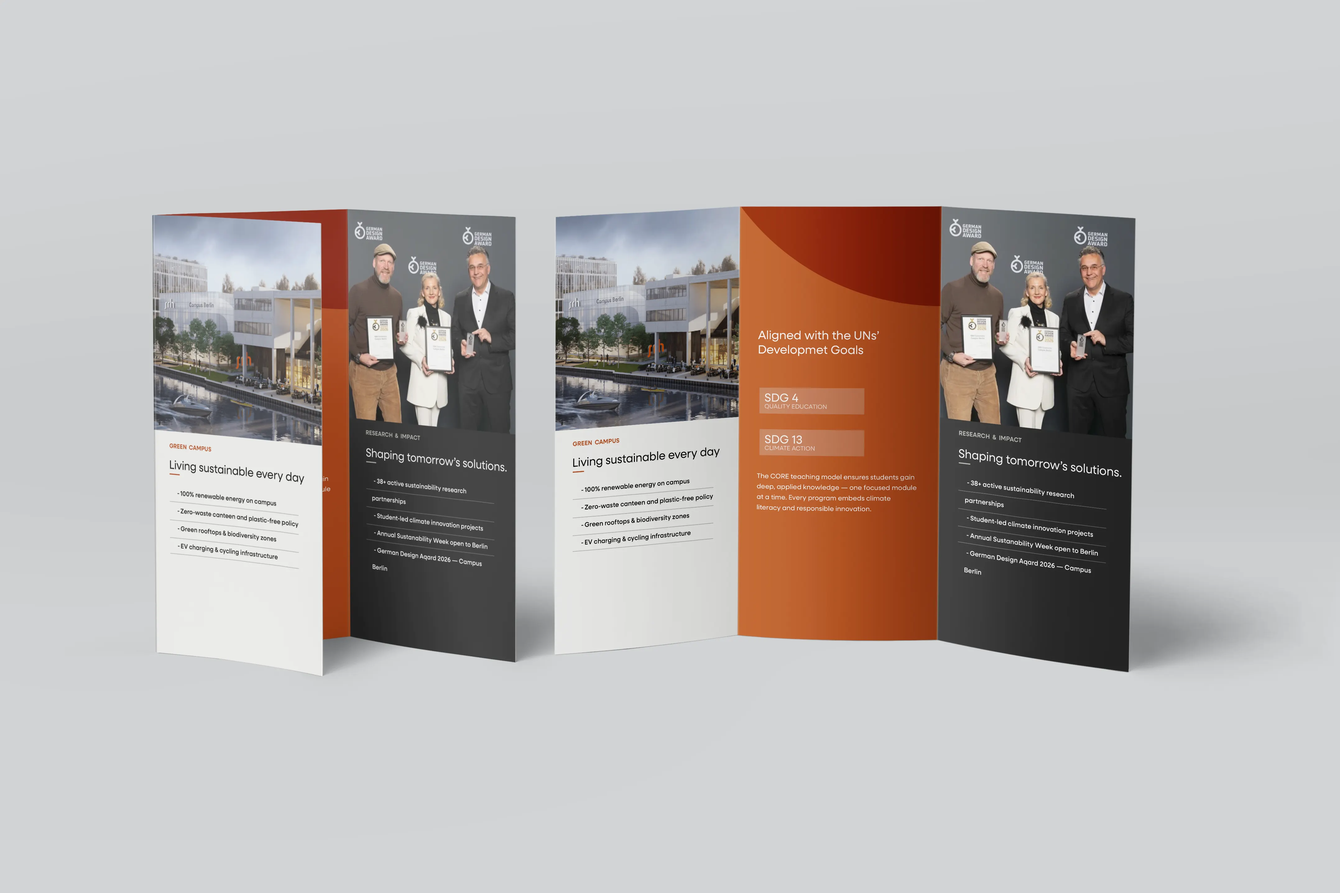
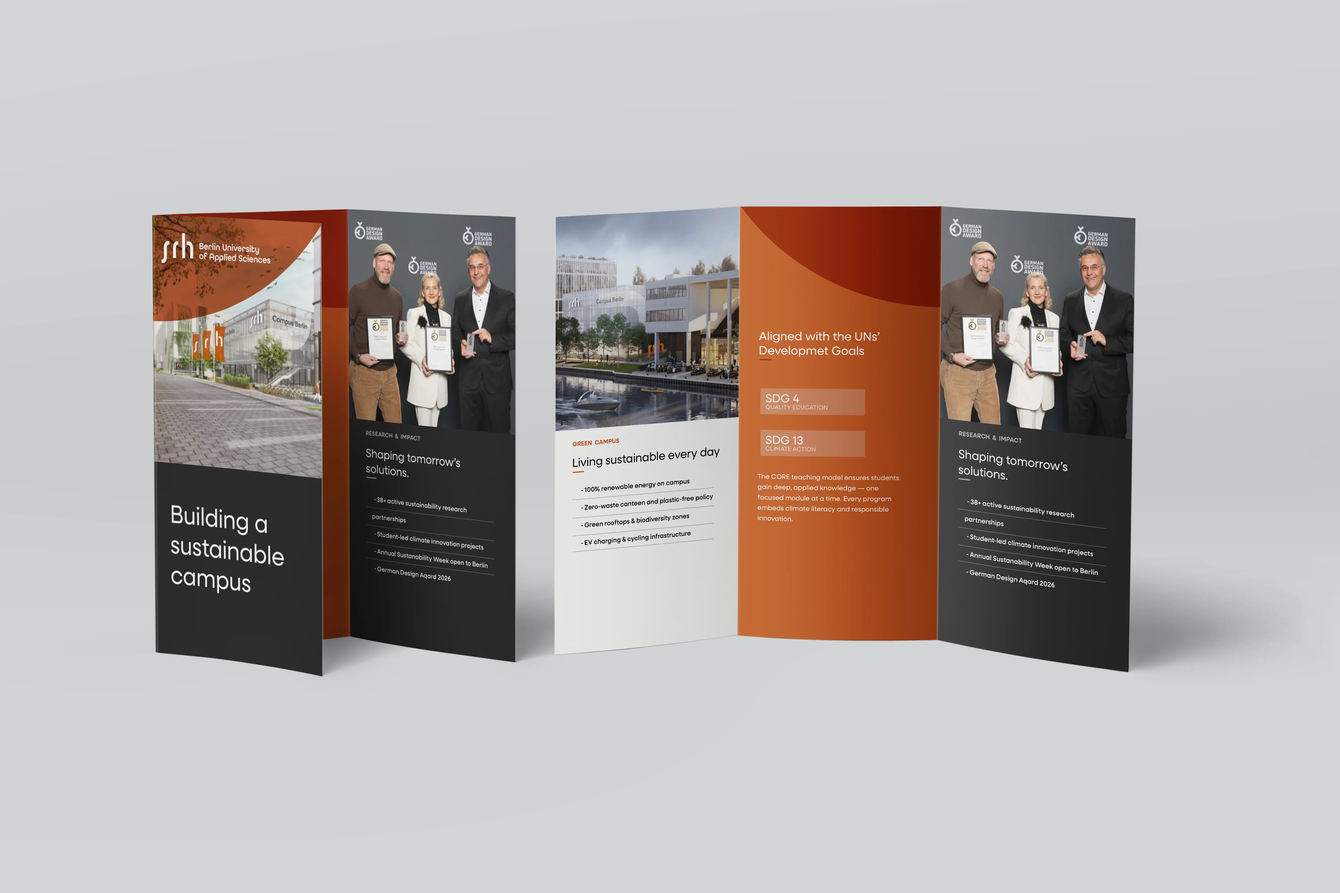
Describe what you changed

diff --git a/flerkanalspublisering.html b/flerkanalspublisering.html
@@ -11,42 +11,88 @@
   <link href="https://fonts.googleapis.com/css2?family=Inter:wght@400;500&family=Poppins:wght@300;400;500&family=Caveat:wght@400&display=swap" rel="stylesheet">
   <link rel="stylesheet" href="./styles.css?v=20" />
   <link rel="icon" href="assets/hvitlogo.webp">
+  <link rel="preload" as="image" href="./assets/poster-srh.webp">
   <style>
-    #posterBannerStrip { scrollbar-width: none; overflow-y: hidden; }
-    #posterBannerStrip::-webkit-scrollbar { display: none; }
-    #posterBannerStrip:active { cursor: grabbing; }
+    /* Remove default template padding to keep the hero flush to the top */
+    #content { padding-top: 0 !important; }
+    #project { padding-top: 0 !important; margin-top: 0 !important; }
+
     #linkedinPostsScroll { scrollbar-width: none; overflow-y: hidden; }
     #linkedinPostsScroll::-webkit-scrollbar { display: none; }
     #linkedinPostsScroll:active { cursor: grabbing; }
     .srh-label { font-family: inherit; font-size: 0.68rem; font-weight: 500; letter-spacing: 0.16em; text-transform: uppercase; color: #111; margin: 0 0 12px 0; }
     .srh-desc  { font-family: 'Poppins', sans-serif; font-size: 0.88rem; font-weight: 300; line-height: 1.8; color: #222; margin: 0; }
     .srh-desc--solo { max-width: 560px; }
-    .brosyre-slider { position: relative; margin-bottom: 12px; }
+
+    /* Hero Section */
+    .hero-section {
+      width: 100%;
+      height: clamp(400px, 72vh, 900px);
+      position: relative;
+      margin-bottom: 48px;
+      overflow: hidden;
+    }
+    .hero-section img {
+      display: block;
+      width: 100%;
+      height: 100%;
+      object-fit: cover;
+      object-position: top center;
+    }
+
+    /* Slider styling: 100% width of the content column, perfectly centered */
+    .brosyre-slider { 
+      position: relative; 
+      margin-bottom: 24px; 
+      width: 100%; 
+      display: flex;
+      align-items: center;
+      justify-content: center;
+    }
+    .brosyre-slider img {
+      display: block; 
+      width: 100%; 
+      height: auto; 
+      object-fit: contain;
+    }
+
     .brosyre-arrow {
       position: absolute; top: 50%; transform: translateY(-50%);
       background: white; border: none; width: 34px; height: 34px;
       display: flex; align-items: center; justify-content: center;
       cursor: pointer; font-size: 1.1rem; box-shadow: 0 1px 6px rgba(0,0,0,0.12);
       border-radius: 50%; transition: background 0.15s;
+      z-index: 10;
     }
     .brosyre-arrow:hover { background: #f5f5f5; }
     .brosyre-arrow--prev { left: 16px; }
     .brosyre-arrow--next { right: 16px; }
+    
     .srh-intro-cols { display: flex; gap: var(--gap, 32px); }
-    .srh-hero-meta { display: flex; gap: 64px; margin-bottom: 96px; padding-top: 16px; }
+    .srh-hero-meta { display: flex; gap: 40px; margin-bottom: 96px; padding-top: 24px; }
     .srh-strip-img { height: clamp(320px, 55vh, 640px); width: auto; flex-shrink: 0; scroll-snap-align: start; display: block; }
     .srh-linkedin-section { display: flex; gap: var(--gap, 32px); margin-bottom: 12px; align-items: flex-start; }
     .srh-reklame-section { display: flex; gap: var(--gap, 32px); margin-bottom: 88px; align-items: flex-start; }
-    @media (max-width: 720px) {
-      .srh-intro-cols { flex-direction: column; }
-      .srh-hero-meta { flex-direction: column; gap: 40px; }
-      .srh-hero-meta > div:first-child { width: 100% !important; }
-      .srh-strip-img { height: clamp(240px, 70vw, 400px); }
-      .srh-linkedin-section { flex-direction: column; }
-      .srh-linkedin-section img { width: 60% !important; }
-      .srh-reklame-section { flex-direction: column; }
+    
+    /* Responsive overrides for Mobile and Tablet */
+    @media (max-width: 768px) {
+      .srh-hero-meta { flex-direction: column !important; gap: 32px !important; margin-bottom: 64px !important; padding: 0 16px; }
+      .srh-hero-meta > div { width: 100% !important; margin-left: 0 !important; max-width: 100% !important; }
+      
+      .srh-linkedin-section { flex-direction: column !important; padding: 0 16px; }
+      .srh-linkedin-section > img { width: 60% !important; max-width: 240px; margin: 0 auto 24px auto !important; }
+      #linkedinPostsScroll { margin-top: 0 !important; }
+      
+      .srh-reklame-section { flex-direction: column !important; padding: 0 16px; }
       .srh-reklame-section > div { flex: unset !important; width: 100% !important; }
+      
+      .typo-block { padding: 24px !important; gap: 32px !important; }
+      .typo-item { flex-direction: column !important; gap: 16px !important; }
+      
+      .srh-desc--solo, .srh-label { padding: 0 16px; }
+      .color-swatches { grid-template-columns: repeat(auto-fit, minmax(100px, 1fr)) !important; gap: 12px !important; padding: 0 16px; }
     }
+
     .srh-section { margin-bottom: var(--gap, 32px); }
     .srh-section-head { margin-bottom: 20px; }
     .img-zoom { position: relative; overflow: hidden; cursor: zoom-in; }
@@ -98,91 +144,76 @@
 
   <main id="content" class="content">
     <article class="project" id="project">
-        <!-- Hero image with gradient fade -->
-        <div style="position:relative;height:72vh;overflow:hidden;margin-bottom:48px;">
-          <img src="./assets/poster-srh.webp" alt="SRH Open Day poster" style="display:block;width:100%;height:100%;object-fit:cover;object-position:top;">
+        
+        <div class="hero-section">
+          <img src="./assets/poster-srh.webp" alt="SRH Open Day poster" fetchpriority="high" decoding="async">
           <div style="position:absolute;bottom:0;left:0;right:0;height:35%;background:linear-gradient(to bottom,transparent,#fff);pointer-events:none;"></div>
         </div>
 
-        <!-- Title + metadata (left) | text (right) -->
         <div class="srh-hero-meta">
-          <div style="width:360px;flex-shrink:0;">
-            <img src="./srh-open-day-3/assets/img/srh-logo-oransj@3x.webp" alt="SRH Berlin University of Applied Sciences" style="display:block;width:100%;height:auto;margin-bottom:32px;">
+          <div style="width:280px;flex-shrink:0;">
+            <img src="./srh-open-day-3/assets/img/srh-logo-oransj@3x.webp" alt="SRH Berlin University of Applied Sciences" decoding="async" style="display:block;width:100%;height:auto;margin-bottom:32px;">
             <p class="srh-label">Oppgave</p>
             <p class="srh-desc" style="margin-bottom:24px;">IDG1009 Flerkanalpublisering<br>Høst 2024</p>
             <p class="srh-label">Verktøy</p>
-            <div style="display:flex;gap:16px;flex-wrap:wrap;">
+            <div style="display:flex;gap:12px;flex-wrap:wrap;">
               <div style="display:flex;flex-direction:column;align-items:center;gap:6px;">
-                <img src="./srh-open-day-3/assets/img/figma.png" alt="Figma" style="width:32px;height:32px;object-fit:contain;">
+                <img src="./srh-open-day-3/assets/img/figma.png" alt="Figma" loading="lazy" decoding="async" style="width:32px;height:32px;object-fit:contain;">
                 <span class="srh-desc">Figma</span>
               </div>
               <div style="display:flex;flex-direction:column;align-items:center;gap:6px;">
-                <img src="./assets/illustrator.webp" alt="Adobe Illustrator" style="width:32px;height:32px;object-fit:contain;">
+                <img src="./assets/illustrator.webp" alt="Adobe Illustrator" loading="lazy" decoding="async" style="width:32px;height:32px;object-fit:contain;">
                 <span class="srh-desc">Illustrator</span>
               </div>
               <div style="display:flex;flex-direction:column;align-items:center;gap:6px;">
-                <img src="./assets/photoshop.webp" alt="Adobe Photoshop" style="width:32px;height:32px;object-fit:contain;">
+                <img src="./assets/photoshop.webp" alt="Adobe Photoshop" loading="lazy" decoding="async" style="width:32px;height:32px;object-fit:contain;">
                 <span class="srh-desc">Photoshop</span>
               </div>
               <div style="display:flex;flex-direction:column;align-items:center;gap:6px;">
-                <img src="./assets/indesign.webp" alt="Adobe Indesign" style="width:32px;height:32px;object-fit:contain;">
+                <img src="./assets/indesign.webp" alt="Adobe Indesign" loading="lazy" decoding="async" style="width:32px;height:32px;object-fit:contain;">
                 <span class="srh-desc">Indesign</span>
               </div>
             </div>
           </div>
-          <div style="flex:1;min-width:0;display:flex;flex-direction:column;gap:1.8rem;justify-content:center;">
+          <div style="flex:1;min-width:0;display:flex;flex-direction:column;gap:1.8rem;justify-content:center;max-width:640px; margin-left:48px;">
             <p style="font-family:'Poppins',sans-serif;font-size:1rem;font-weight:300;line-height:1.8;color:#222;margin:0;">I faget flerkanalspublisering fikk vi i oppgave å designe for en valgfri bedrift. Jeg valgte SRH University of Applied Sciences fordi det er en skole jeg har vært interessert i å dra på utveksling til, og som jeg synes har et spennende og visuelt tiltalende miljø.</p>
-            <p style="font-family:'Poppins',sans-serif;font-size:1rem;font-weight:300;line-height:1.8;color:#222;margin:0;">Oppgaven har vært å utvikle en visuell kommunikasjonsløsning for et arrangement på tvers av flere medier. Prosjektet tar utgangspunkt i Open Day ved SRH Campus Berlin, og bruker arrangementet som et case for å utforske et tydelig visuelt uttrykk gjennom struktur, hierarki og konsistente designprinsipper.</p>
+            <p style="font-family:'Poppins',sans-serif;font-size:1rem;font-weight:300;line-height:1.8;color:#222;margin:0;">Oppgaven har vært å utvikle una visuell kommunikasjonsløsning for et arrangement på tvers av flere medier. Prosjektet tar utgangspunkt i Open Day ved SRH Campus Berlin, og bruker arrangementet som et case for å utforske et tydelig visuelt uttrykk gjennom struktur, hierarki og konsistente designprinsipper.</p>
           </div>
         </div>
 
-        <!-- Plakat + Rollupbanner (horisontal scroll) -->
-        <div style="display:flex;justify-content:space-between;align-items:baseline;margin-bottom:12px;">
-          <p class="srh-label" style="margin:0;">Plakat</p>
-          <p class="srh-label" style="margin:0;">Rollupbanner ›</p>
+        <div style="margin-bottom:12px;">
+          <p class="srh-label" style="margin:0;">Rollupbanner & Plakat</p>
         </div>
-        <div style="position:relative;margin-bottom:12px;">
-          <div id="posterBannerStrip" style="display:flex;overflow-x:auto;scroll-snap-type:x mandatory;-webkit-overflow-scrolling:touch;cursor:grab;">
-            <div style="min-width:100%;flex-shrink:0;scroll-snap-align:start;">
-              <img src="./assets/poster-srh.webp" alt="Poster SRH" style="display:block;width:100%;height:clamp(400px,75vh,700px);object-fit:cover;object-position:center;">
-            </div>
-            <div style="flex-shrink:0;scroll-snap-align:start;padding-left:var(--gap,32px);">
-              <img src="./assets/banner-srh.webp" alt="Banner SRH" style="display:block;height:clamp(400px,80vh,800px);width:auto;">
-            </div>
-          </div>
-          <div style="position:absolute;top:0;right:0;width:80px;height:100%;background:linear-gradient(to right,transparent,rgba(255,255,255,0.95));pointer-events:none;display:flex;align-items:center;justify-content:flex-end;padding-right:12px;">
-            <div style="display:flex;flex-direction:column;align-items:center;gap:4px;">
-              <svg width="28" height="28" viewBox="0 0 28 28" fill="none"><circle cx="14" cy="14" r="13" fill="white" stroke="#ddd"/><path d="M11.5 9l5 5-5 5" stroke="#111" stroke-width="1.8" stroke-linecap="round" stroke-linejoin="round"/></svg>
-              <span style="font-size:0.6rem;letter-spacing:0.12em;text-transform:uppercase;color:#888;font-family:inherit;">scroll</span>
-            </div>
-          </div>
+        
+        <div class="brosyre-slider">
+          <img id="bannerPosterImg" src="./assets/banner-srh.webp" alt="Banner SRH" loading="lazy" decoding="async">
+          <button class="brosyre-arrow brosyre-arrow--prev" onclick="bannerPosterNav(-1)" aria-label="Forrige"><svg width="8" height="13" viewBox="0 0 10 16" fill="none"><path d="M8 1L2 8L8 15" stroke="currentColor" stroke-width="2" stroke-linecap="round" stroke-linejoin="round"/></svg></button>
+          <button class="brosyre-arrow brosyre-arrow--next" onclick="bannerPosterNav(1)" aria-label="Neste"><svg width="8" height="13" viewBox="0 0 10 16" fill="none"><path d="M2 1L8 8L2 15" stroke="currentColor" stroke-width="2" stroke-linecap="round" stroke-linejoin="round"/></svg></button>
         </div>
+        
         <div style="margin-bottom:88px;display:flex;flex-direction:column;gap:8px;max-width:680px;">
-          <p class="srh-desc" style="margin:0;">Plakaten er designet for å fange oppmerksomhet raskt og formidle Open Day på en tydelig måte. Jeg har tatt inspirasjon fra skolens visuelle uttrykk og min egen interesse for designfagene de tilbyr.</p>
-          <p class="srh-desc" style="margin:0;">Rollup-banneret er laget for å fungere i fysiske omgivelser, med et enkelt og tydelig budskap som er lett å få med seg på avstand. Designet følger samme visuelle retning som resten av konseptet.</p>
+          <p class="srh-desc srh-desc--solo" style="margin:0;">Plakaten er designet for å fange oppmerksomhet raskt og formidle Open Day på en tydelig måte. Jeg har tatt inspirasjon fra skolens visuelle uttrykk og min egen interesse for designfagene de tilbyr.</p>
+          <p class="srh-desc srh-desc--solo" style="margin:0;">Rollup-banneret er laget for å fungere i fysiske omgivelser, med et enkelt og tydelig budskap som er lett å få med seg på avstand. Designet følger samme visuelle retning som resten av konseptet.</p>
         </div>
 
-        <!-- Nettside -->
         <p class="srh-label">Nettside (event)</p>
-        <video src="./assets/srh-video.mp4" autoplay muted loop playsinline controls style="display:block;width:100%;height:auto;margin-bottom:12px;"></video>
+        <video src="./assets/srh-video.mp4" autoplay muted loop playsinline controls preload="metadata" style="display:block;width:100%;height:auto;margin-bottom:12px;"></video>
         <p class="srh-desc srh-desc--solo" style="margin-bottom:88px;">Nettsiden er holdt veldig enkel, med fokus på å formidle informasjon om arrangementet på en rask og oversiktlig måte. Den er laget for at brukeren raskt skal forstå hva, hvor og når. <a href="./srh-open-day-3/index.html" target="_blank" rel="noopener" style="color:inherit;text-decoration:underline;text-underline-offset:3px;">Åpne nettsiden ↗</a></p>
 
-        <!-- Brosjyre -->
         <p class="srh-label">Brosjyre</p>
         <div class="brosyre-slider">
-          <img id="brosyreImg" src="./assets/brosyre-inn-srh.webp" alt="Brosjyre – innside" style="display:block;width:100%;height:auto;">
+          <img id="brosyreImg" src="./assets/brosyre-inn-srh.webp" alt="Brosjyre – innside" loading="lazy" decoding="async">
           <button class="brosyre-arrow brosyre-arrow--prev" onclick="brosyreNav(-1)" aria-label="Forrige"><svg width="8" height="13" viewBox="0 0 10 16" fill="none"><path d="M8 1L2 8L8 15" stroke="currentColor" stroke-width="2" stroke-linecap="round" stroke-linejoin="round"/></svg></button>
           <button class="brosyre-arrow brosyre-arrow--next" onclick="brosyreNav(1)" aria-label="Neste"><svg width="8" height="13" viewBox="0 0 10 16" fill="none"><path d="M2 1L8 8L2 15" stroke="currentColor" stroke-width="2" stroke-linecap="round" stroke-linejoin="round"/></svg></button>
         </div>
-        <p class="srh-desc srh-desc--solo" style="margin-bottom:88px;">Brosjyren skiller seg litt ut ved at den fokuserer på skolens bærekraftstiltak. Jeg valgte et minimalistisk uttrykk, der målet er å gi en kort introduksjon og heller lede videre til mer detaljert informasjon på deres egen nettside.</p>
+        <p class="srh-desc srh-desc--solo" style="margin-bottom:88px;">Brosjyren skiller seg litt ut ved at den fokuserer på skolens bærekraftstiltak. Jeg valgte et minimalistisk uttrykk, der målet er å gi una kort introduksjon og heller lede videre til mer detaljert informasjon på deres egen nettside.</p>
 
-        <!-- LinkedIn-karusell -->
         <p class="srh-label">LinkedIn-karusell</p>
         <div class="srh-linkedin-section">
-          <img src="./assets/linkedin-post@3x.webp" alt="LinkedIn-karusell – enkeltpost" style="display:block;width:26%;height:auto;flex-shrink:0;">
+          <img src="./assets/linkedin-post@3x.webp" alt="LinkedIn-karusell – enkeltpost" loading="lazy" decoding="async" style="display:block;width:26%;height:auto;flex-shrink:0;">
           <div style="flex:1;min-width:0;position:relative;">
             <div id="linkedinPostsScroll" style="overflow-x:auto;-webkit-overflow-scrolling:touch;cursor:grab;margin-top:120px;">
-              <img src="./assets/linkedin-posts.webp" alt="LinkedIn-karusell – oversikt" style="display:block;height:320px;width:auto;max-width:none;">
+              <img src="./assets/linkedin-posts.webp" alt="LinkedIn-karusell – oversikt" loading="lazy" decoding="async" style="display:block;height:320px;width:auto;max-width:none;">
             </div>
             <div style="position:absolute;top:120px;right:0;width:80px;height:320px;background:linear-gradient(to right,transparent,rgba(255,255,255,0.97));pointer-events:none;display:flex;align-items:center;justify-content:flex-end;padding-right:10px;">
               <div style="display:flex;flex-direction:column;align-items:center;gap:4px;">
@@ -192,9 +223,8 @@
             </div>
           </div>
         </div>
-        <p class="srh-desc srh-desc--solo" style="margin-bottom:88px;">Carousel-designet er mer informasjonsbasert, med mindre bruk av bilder og tydelig hvit tekst på SRHs oransje farge. Her er det viktig at budskapet kommer klart frem i en profesjonell kontekst.</p>
+        <p class="srh-desc srh-desc--solo" style="margin-bottom:88px;">Carousel-designet er mer informasjonsbasert, med mindre bruk av bilder og tydelig hvit tekst på SRHs oransje farge. Her er det viktig at budskapet kommer klart frem i una profesjonell kontekst.</p>
 
-        <!-- Reklamebanner + Facebook event -->
         <div class="srh-reklame-section">
           <div style="flex:1;min-width:0;">
             <p class="srh-label">Reklamebanner</p>
@@ -219,6 +249,107 @@
               </div>
             </div>
             <p class="srh-desc">Facebook-eventet er også holdt enkelt, med tydelig informasjon om arrangementet.</p>
+          </div>
+        </div>
+
+        <div style="margin-bottom:88px; max-width:100%;">
+          <p class="srh-label">Fontvalg & Typografi</p>
+          
+          <div style="margin-bottom:32px;">
+            <div class="typo-block" style="display:flex; flex-wrap:wrap; gap:48px; align-items:flex-start; background:#fbfbfb; padding:48px; border-radius:12px;">
+              
+              <div class="typo-item" style="display:flex; gap:32px; flex:1; min-width:280px; font-family:'All Round Gothic', sans-serif;">
+                <div>
+                  <div style="font-size:80px; font-weight:600; line-height:1; letter-spacing:-0.02em; color:#111;">Aa</div>
+                  <div style="font-size:14px; font-weight:600; margin-top:16px; line-height:1.4; color:#111;">
+                    ABCDEFGHIJKLMN<br>OPQRSTUVWXYZÆØÅ
+                  </div>
+                  <div style="font-size:14px; font-weight:400; margin-top:12px; line-height:1.4; color:#111;">
+                    abcdefghijklmn<br>opqrstuvwxyzæøå
+                  </div>
+                </div>
+                <div style="display:flex; flex-direction:column; justify-content:center; gap:24px;">
+                  <div>
+                    <div style="font-size:12px; color:#666; margin-bottom:4px; font-family:'Poppins', sans-serif;">Logo / Tittel:</div>
+                    <div style="font-size:20px; font-weight:600; color:#111;">All Round Gothic Demi</div>
+                  </div>
+                </div>
+              </div>
+
+              <div class="typo-item" style="display:flex; gap:32px; flex:1; min-width:280px; font-family:'Neulis Sans', 'Poppins', sans-serif;">
+                <div>
+                  <div style="font-size:80px; font-weight:500; line-height:1; letter-spacing:-0.02em; color:#111;">Aa</div>
+                  <div style="font-size:14px; font-weight:500; margin-top:16px; line-height:1.4; color:#111;">
+                    ABCDEFGHIJKLMN<br>OPQRSTUVWXYZÆØÅ
+                  </div>
+                  <div style="font-size:14px; font-weight:400; margin-top:12px; line-height:1.4; color:#111;">
+                    abcdefghijklmn<br>opqrstuvwxyzæøå
+                  </div>
+                </div>
+                <div style="display:flex; flex-direction:column; justify-content:center; gap:24px;">
+                  <div>
+                    <div style="font-size:12px; color:#666; margin-bottom:4px; font-family:'Poppins', sans-serif;">Overskrifter / Brødtekst:</div>
+                    <div style="font-size:20px; font-weight:500; color:#111; margin-bottom:8px;">Neulis Sans Medium</div>
+                    <div style="font-size:20px; font-weight:400; color:#111;">Neulis Sans Regular</div>
+                  </div>
+                </div>
+              </div>
+
+            </div>
+          </div>
+
+          <div style="display:flex; flex-direction:column; gap: 24px; max-width: 100%; margin-bottom: 64px;">
+            <p class="srh-desc srh-desc--solo" style="max-width: 100%; margin:0;">Logoen benytter All Round Gothic – Demi, da denne ligger nærmest typografien brukt på den originale nettsiden og tilhørende flater. For resten av den visuelle identiteten er Neulis Sans valgt i vektene Medium og Regular, for å skape una mer lesbar og moderne typografisk helhet.</p>
+            <p class="srh-desc srh-desc--solo" style="max-width: 100%; margin:0;">I førsteutkastet, se <a href="./assets/srh_pdf.pdf" target="_blank" rel="noopener" style="text-decoration:underline;text-underline-offset:3px;color:inherit;font-weight:500;">srh_pdf.pdf</a> ble All Round Gothic brukt gjennomgående i hele designet. Dette viste seg imidlertid å fungere mindre godt, da fonten blir for dominerende i lengre tekstmengder og svekker lesbarheten. I tillegg opplevdes den beige fargepaletten som lite treffsikker, da den ikke i tilstrekkelig grad støttet opp under det visuelle uttrykket og identiteten som ønskes formidlet.</p>
+          </div>
+
+          <p class="srh-label">Fargepalett</p>
+          <div class="color-swatches" style="display:grid; grid-template-columns: repeat(auto-fit, minmax(110px, 1fr)); gap:16px; margin-top:16px;">
+            <div style="display:flex; flex-direction:column; gap:12px;">
+              <div style="width:90px; height:90px; border-radius:50%; background-color:#971b14; box-shadow:0 2px 6px rgba(0,0,0,0.08);"></div>
+              <div style="font-family:'Poppins', sans-serif; font-size:0.75rem; color:#444; line-height:1.6;">
+                <strong style="color:#111; font-size:0.85rem;">Mørkerød</strong><br>
+                HEX: #971b14<br>
+                RGB: 151, 27, 20<br>
+                CMYK: 21, 98, 100, 26
+              </div>
+            </div>
+            <div style="display:flex; flex-direction:column; gap:12px;">
+              <div style="width:90px; height:90px; border-radius:50%; background-color:#cb5b26; box-shadow:0 2px 6px rgba(0,0,0,0.08);"></div>
+              <div style="font-family:'Poppins', sans-serif; font-size:0.75rem; color:#444; line-height:1.6;">
+                <strong style="color:#111; font-size:0.85rem;">Oransje</strong><br>
+                HEX: #cb5b26<br>
+                RGB: 203, 91, 38<br>
+                CMYK: 12, 74, 96, 2
+              </div>
+            </div>
+            <div style="display:flex; flex-direction:column; gap:12px;">
+              <div style="width:90px; height:90px; border-radius:50%; background-color:#1a1a1a; box-shadow:0 2px 6px rgba(0,0,0,0.08);"></div>
+              <div style="font-family:'Poppins', sans-serif; font-size:0.75rem; color:#444; line-height:1.6;">
+                <strong style="color:#111; font-size:0.85rem;">Svart</strong><br>
+                HEX: #1a1a1a<br>
+                RGB: 26, 26, 26<br>
+                CMYK: 73, 67, 66, 80
+              </div>
+            </div>
+            <div style="display:flex; flex-direction:column; gap:12px;">
+              <div style="width:90px; height:90px; border-radius:50%; background-color:#707070; box-shadow:0 2px 6px rgba(0,0,0,0.08);"></div>
+              <div style="font-family:'Poppins', sans-serif; font-size:0.75rem; color:#444; line-height:1.6;">
+                <strong style="color:#111; font-size:0.85rem;">Grå</strong><br>
+                HEX: #707070<br>
+                RGB: 112, 112, 112<br>
+                CMYK: 0, 0, 0, 56
+              </div>
+            </div>
+            <div style="display:flex; flex-direction:column; gap:12px;">
+              <div style="width:90px; height:90px; border-radius:50%; background-color:#ffffff; border:1px solid #e0e0e0; box-shadow:0 2px 6px rgba(0,0,0,0.08);"></div>
+              <div style="font-family:'Poppins', sans-serif; font-size:0.75rem; color:#444; line-height:1.6;">
+                <strong style="color:#111; font-size:0.85rem;">Hvit</strong><br>
+                HEX: #ffffff<br>
+                RGB: 255, 255, 255<br>
+                CMYK: 0, 0, 0, 0
+              </div>
+            </div>
           </div>
         </div>
 
@@ -397,7 +528,20 @@
     processBackdrop?.addEventListener("click", closeDrawer);
     document.addEventListener("keydown", e => { if (e.key === "Escape") closeDrawer(); });
 
-    // Brosjyre slider
+    // Banner & Poster Slider logic
+    const bannerPosterImgs = [
+      { src: './assets/banner-srh.webp', alt: 'Banner SRH' },
+      { src: './assets/poster-srh.webp', alt: 'Poster SRH' }
+    ];
+    let bannerPosterIdx = 0;
+    function bannerPosterNav(dir) {
+      bannerPosterIdx = (bannerPosterIdx + dir + bannerPosterImgs.length) % bannerPosterImgs.length;
+      const img = document.getElementById('bannerPosterImg');
+      img.src = bannerPosterImgs[bannerPosterIdx].src;
+      img.alt = bannerPosterImgs[bannerPosterIdx].alt;
+    }
+
+    // Brosjyre slider logic
     const brosyreImgs = [
       { src: './assets/brosyre-inn-srh.webp', alt: 'Brosjyre – innside' },
       { src: './assets/brosyre-ute-srh.webp', alt: 'Brosjyre – utside' }
@@ -417,7 +561,7 @@
       const isOpen = sidebar.classList.toggle("sidebar--open");
       toggle.setAttribute("aria-expanded", String(isOpen));
     });
-    </script>
+  </script>
   <script src="./transition.js"></script>
 </body>
 </html>
